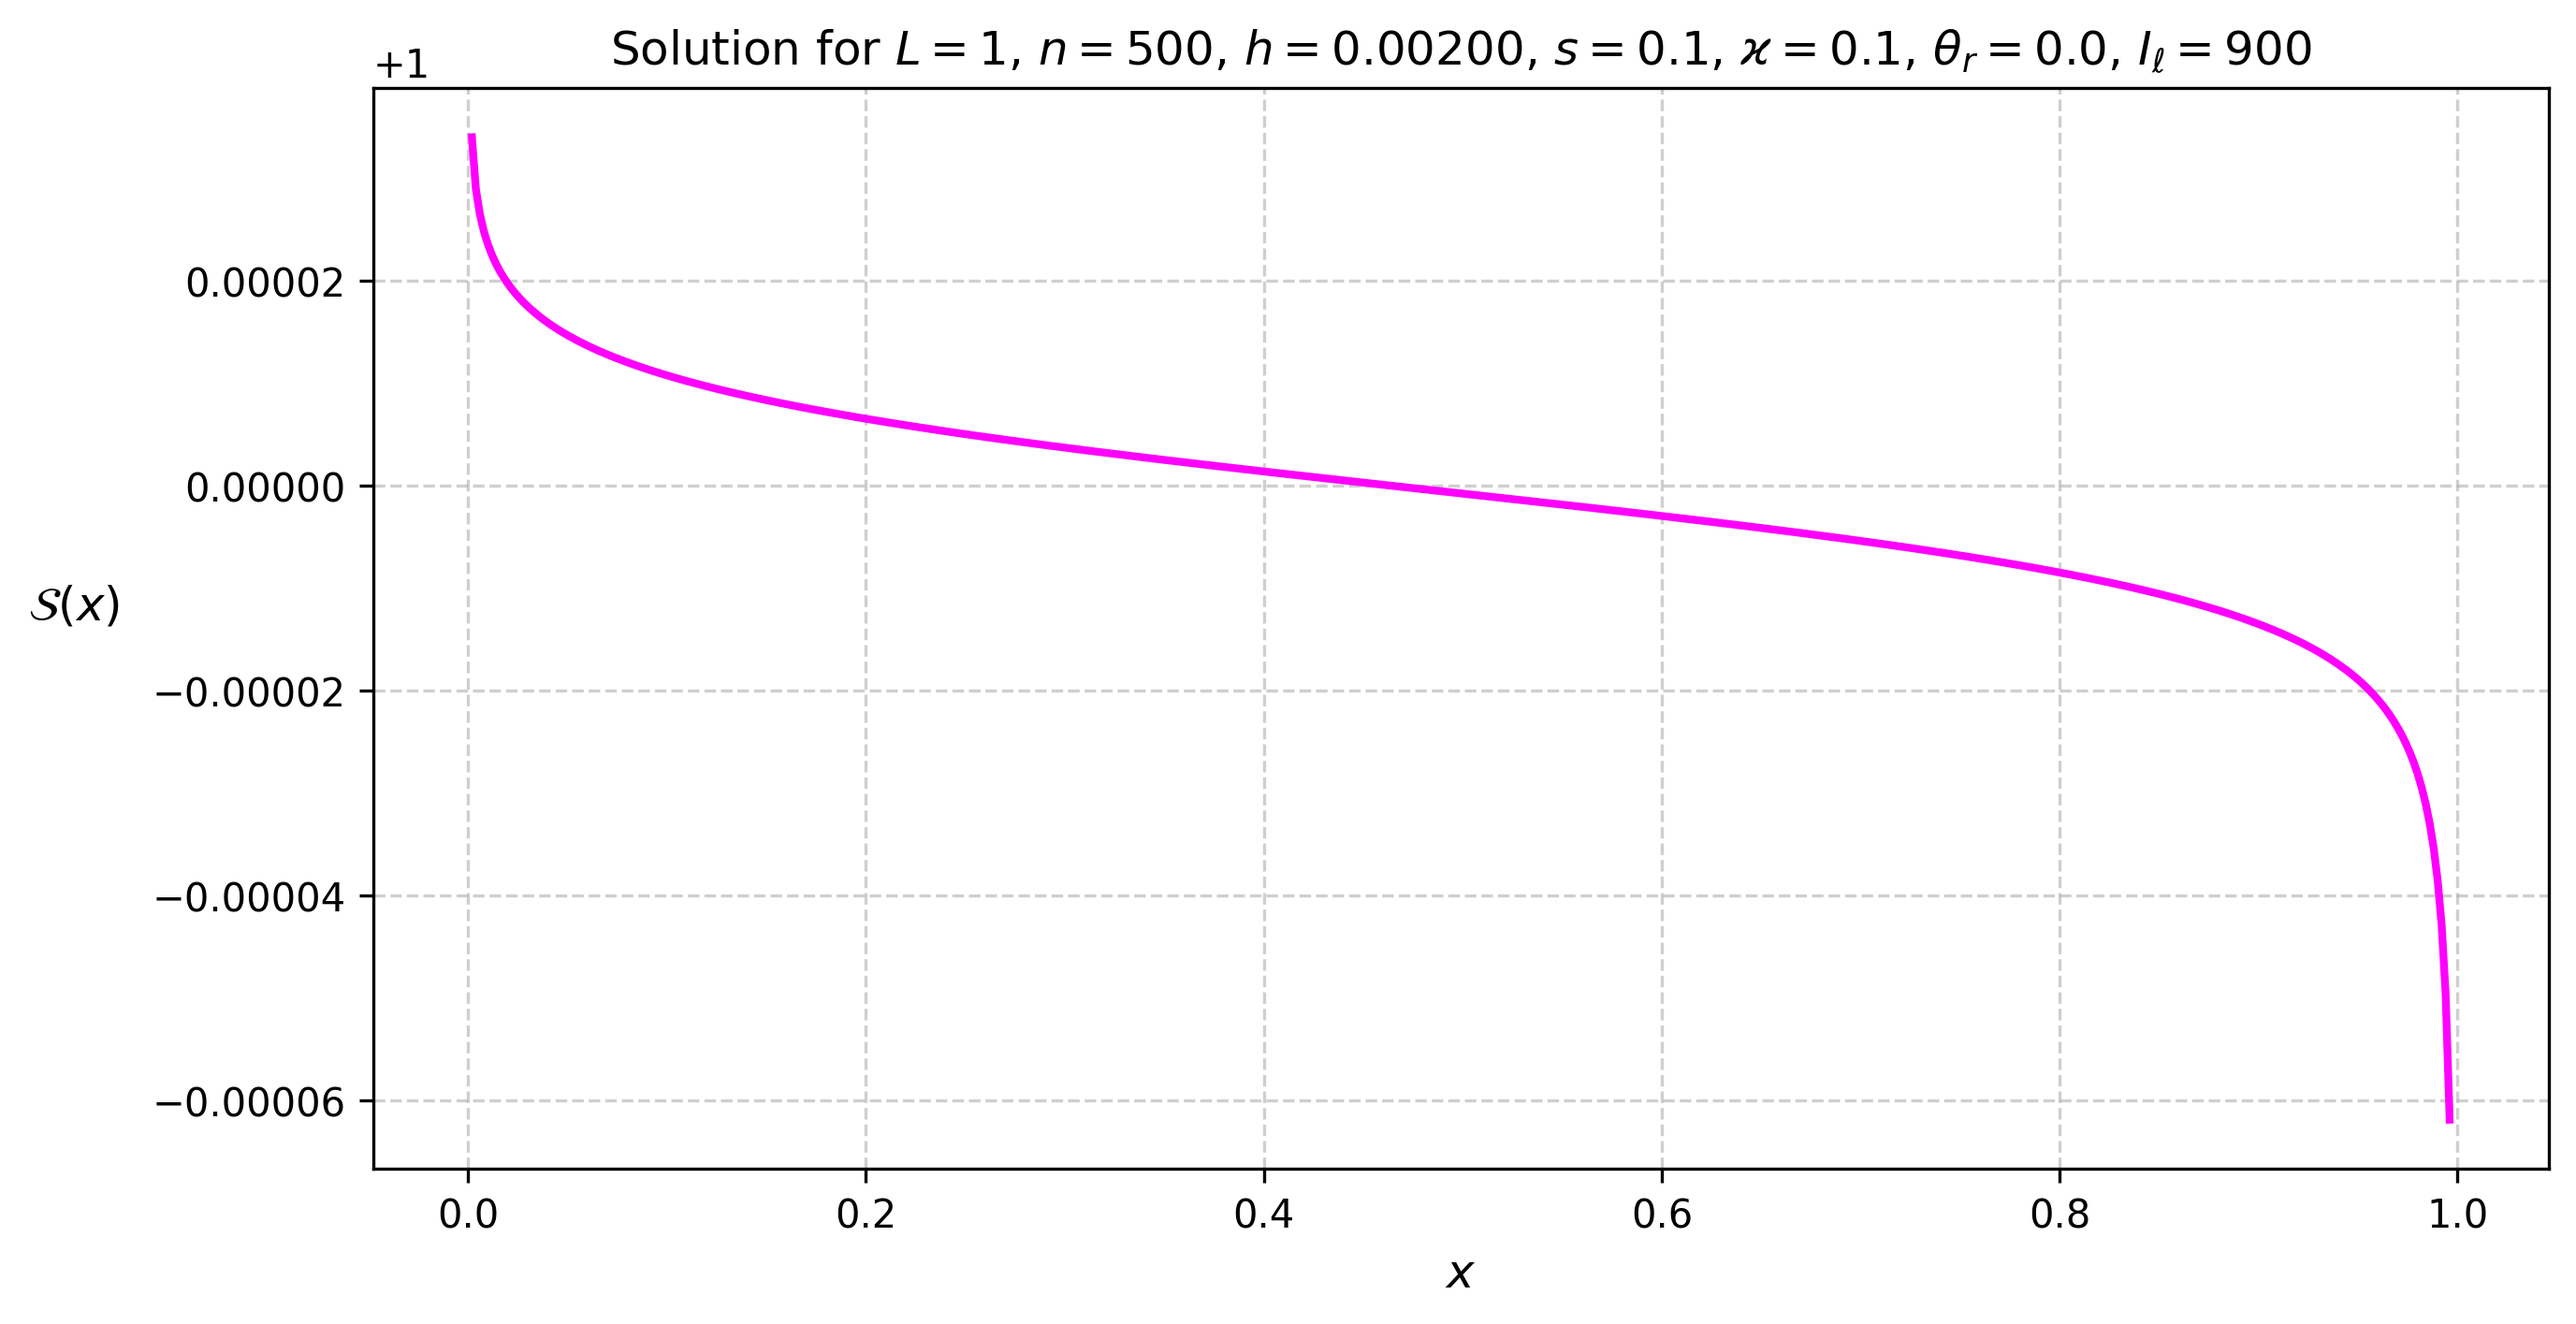
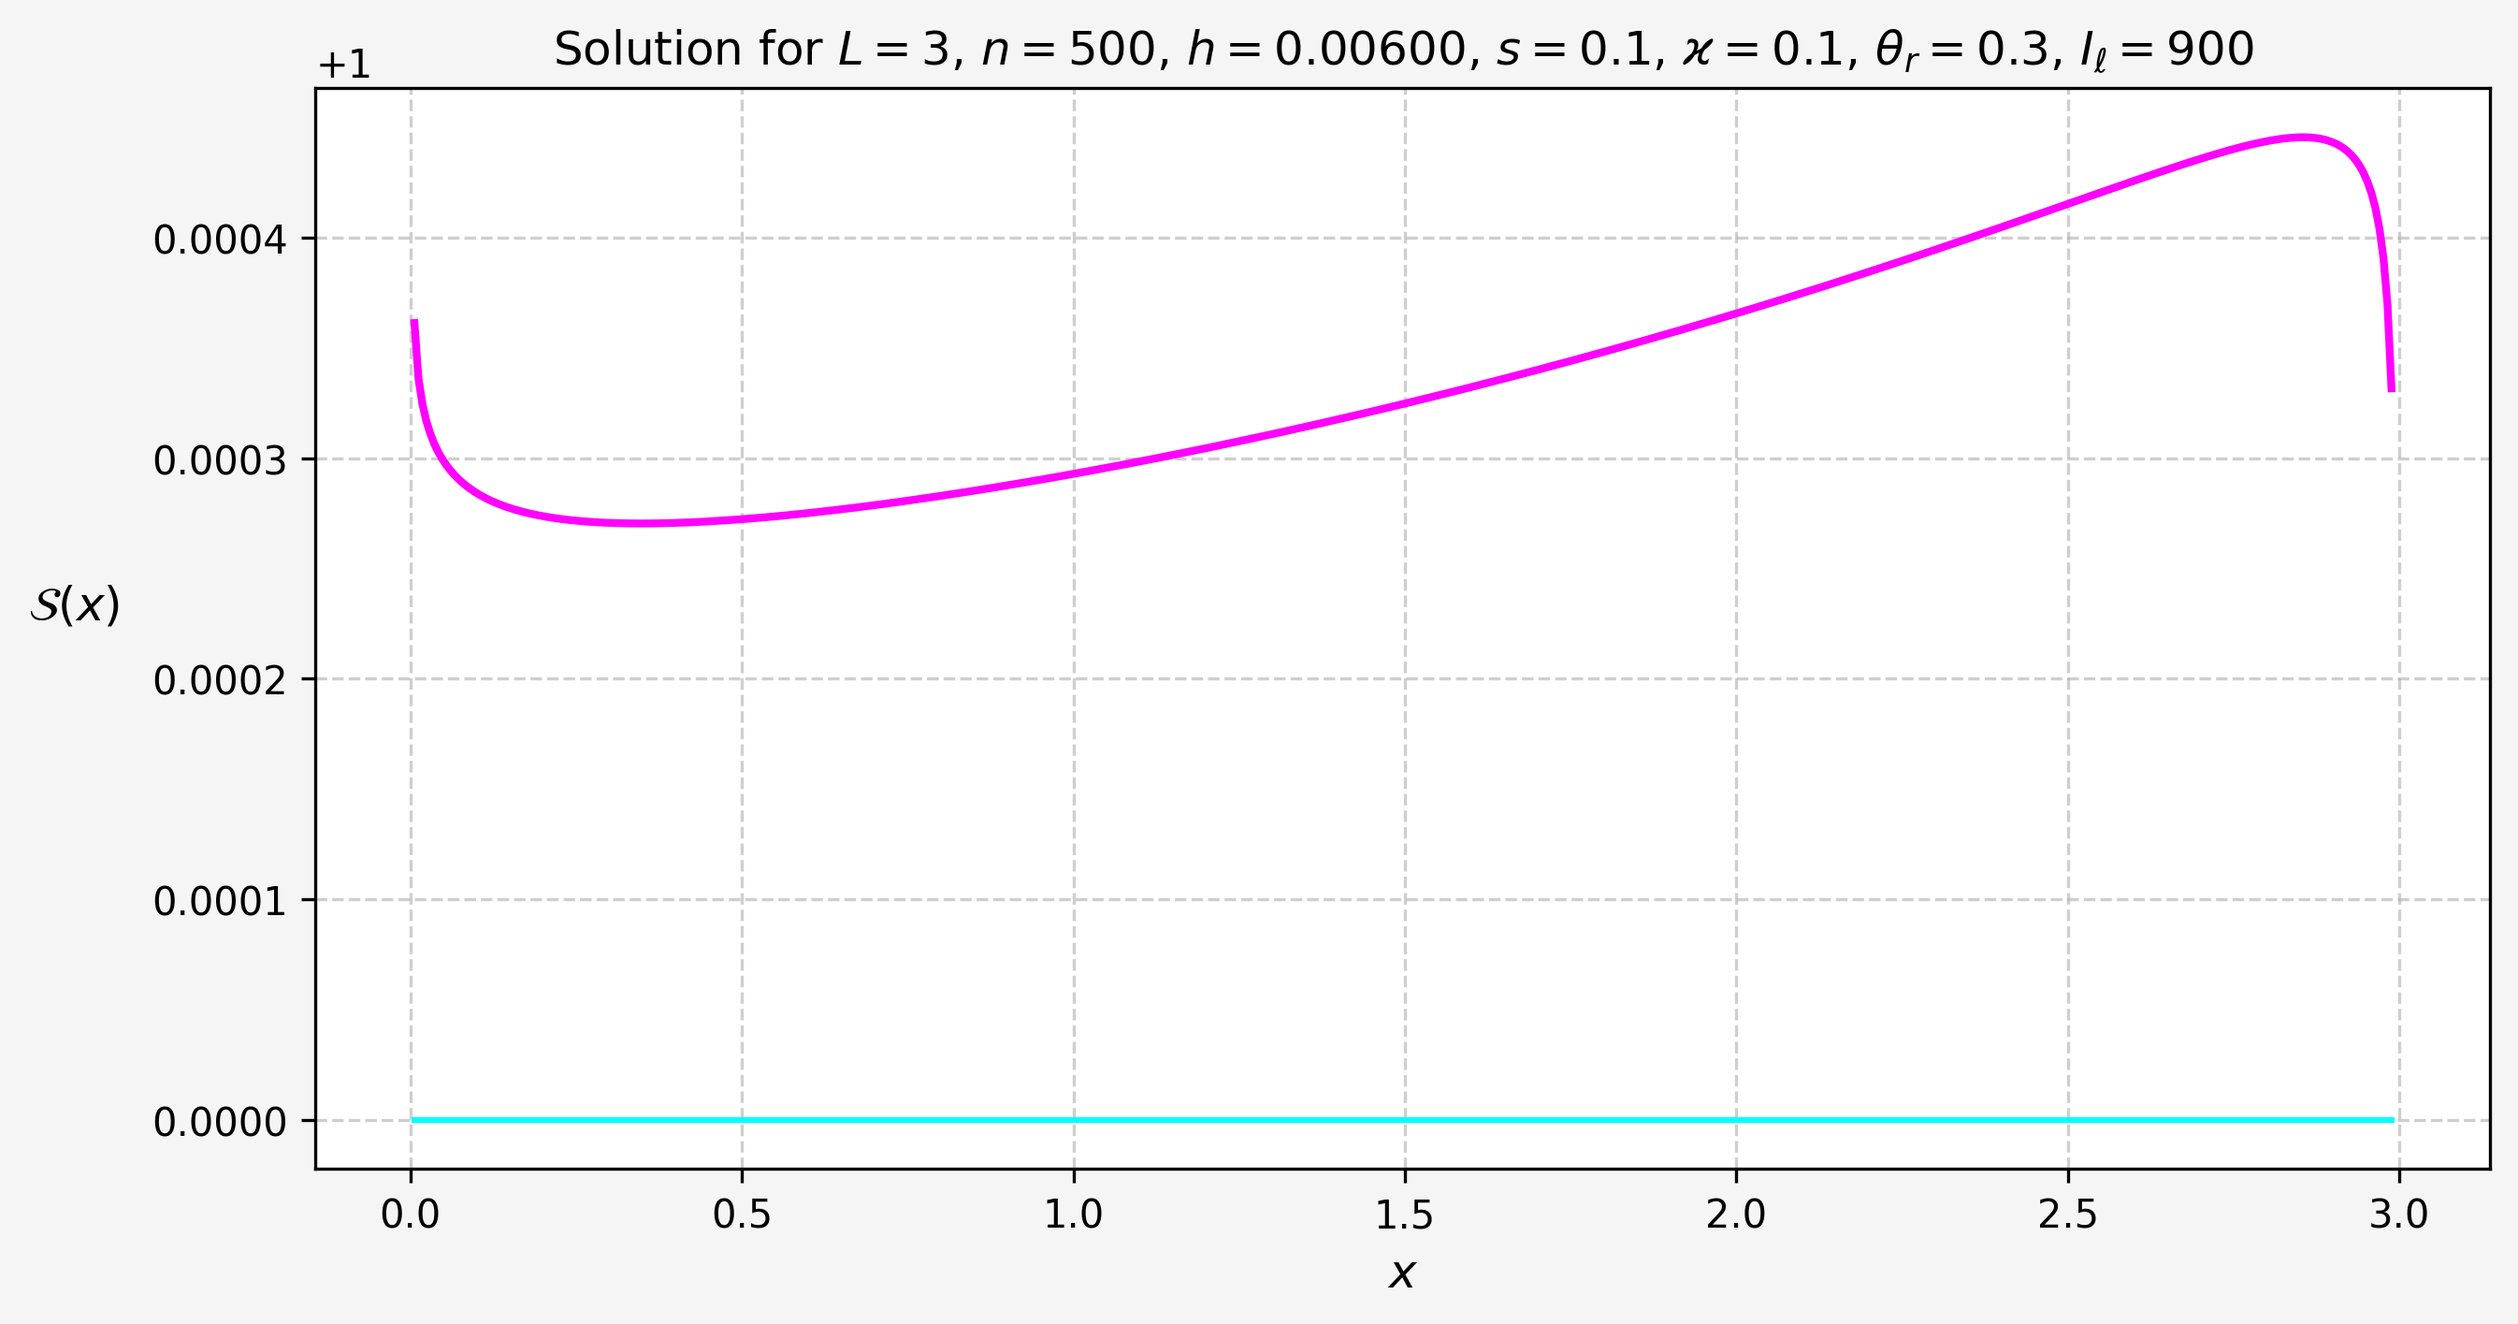
some impoves

diff --git a/intEq.py b/intEq.py
@@ -5,6 +5,7 @@ from matplotlib import pyplot as plt
 from typing import Callable, Dict, Optional, Tuple
 import os
 
+
 from GEI import E3
 
 class IntEq:
@@ -128,8 +129,12 @@ class IntEq:
 
         self.res = self.solve()
         arr = np.linspace(0, self.L, self.res.size)
+
         fig, axs = plt.subplots(1, 1, figsize=(10, 5))
+        fig.patch.set_facecolor('whitesmoke')
+
         axs.plot(arr[1:-2], self.res[1:-2], color='fuchsia', linewidth=2)
+        axs.plot(arr[1:-2], np.ones(arr[1:-2].size), color='cyan')
         axs.grid(True, linestyle='--', alpha=0.6)
         plt.title(f"Solution for $L={self.L}$, $n={self.n}$, $h={self.h:.5f}$, $s={self.s}$, "
                   f"$\\varkappa={self.kappa}$, $\\theta_r={self.theta_r}$, $I_{{\\ell}}={self.I_l}$")
@@ -148,7 +153,10 @@ class IntEq:
         self.res = self.solve()
         arr = np.linspace(0, self.L, self.res.size)[1:-2]
         errors = np.abs(self.res[1:-2] - np.ones(arr.size))
+
         fig, axs = plt.subplots(1, 1, figsize=(10, 5))
+        fig.patch.set_facecolor('whitesmoke')
+
         axs.plot(arr, errors, color='fuchsia', linewidth=2)
         axs.grid(True, linestyle='--', alpha=0.6)
         plt.title(f"Error for $L={self.L}$, $n={self.n}$, $h={self.h:.5f}$, $s={self.s}$, "

diff --git a/GEI.py b/GEI.py
@@ -86,6 +86,8 @@ if __name__ == "__main__":
         os.makedirs('graphs')
 
     fig, axs = plt.subplots(1, 2, figsize=(15, 5))
+    fig.patch.set_facecolor('whitesmoke')
+
     arr = np.linspace(0.00001, 4, 1000)
     ind = np.int64(np.linspace(1, 4, 4))
     col = np.array(['fuchsia', 'cyan', 'deeppink', 'blueviolet'])
@@ -111,7 +113,7 @@ if __name__ == "__main__":
     axs[1].set_title('GEI from scipy')
 
     fig.suptitle('Tests for $E_n(x)$')
-    fig.canvas.manager.set_window_title("GEI")
+    fig.canvas.manager.set_window_title("Generalized Exponential Integral")
     plt.savefig(path, dpi=300, bbox_inches='tight')
     plt.show()
 

diff --git a/solver.py b/solver.py
@@ -3,11 +3,11 @@ from GEI import E2, E3
 
 if __name__ == "__main__":
     data = dict(
-        L = 1,
+        L = 3,
         n = 500,
         s = 0.1,
         kappa = 0.1,
-        theta_r = 0.0,
+        theta_r = 0.3,
         I_l = 900
     )
     
